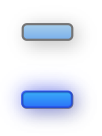
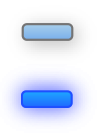
.

Changed region(s): [[0.2059, 0.6176, 0.7353, 0.8529]]

diff --git a/less/style_responsive.less b/less/style_responsive.less
@@ -115,7 +115,7 @@
 	  background-position: 0px 0px;
 	}
 
-	li.grey-btn:hover {
+	li.grey-btn:hover, li#wtfToggle.pressed {
 	  background: url('../images/btn-grey_@2X.png') no-repeat;
 	  background-size: 51px 68px;
 	  background-position: 0px -34px;
@@ -126,7 +126,7 @@
 	  background-position: 0px 0px;
 	}
 
-	li.blue-btn:hover, li#wtfToggle.pressed {
+	li.blue-btn:hover {
 	  background: url('../images/btn-blue_@2X.png') no-repeat;
 	  background-size: 51px 68px;
 	  background-position: 0px -34px;
@@ -148,6 +148,7 @@
 	  background-size: 83px 83px;
 	}
 }
+
 
 /* 1.25 dpr */
 @media (-webkit-min-device-pixel-ratio: 1.25), (min-resolution: 120dpi){ 

diff --git a/css/style_responsive.css b/css/style_responsive.css
@@ -101,7 +101,8 @@
     background-size: 51px 68px;
     background-position: 0px 0px;
   }
-  li.grey-btn:hover {
+  li.grey-btn:hover,
+  li#wtfToggle.pressed {
     background: url('../images/btn-grey_@2X.png') no-repeat;
     background-size: 51px 68px;
     background-position: 0px -34px;
@@ -111,8 +112,7 @@
     background-size: 51px 68px;
     background-position: 0px 0px;
   }
-  li.blue-btn:hover,
-  li#wtfToggle.pressed {
+  li.blue-btn:hover {
     background: url('../images/btn-blue_@2X.png') no-repeat;
     background-size: 51px 68px;
     background-position: 0px -34px;

diff --git a/index.html b/index.html
@@ -55,7 +55,7 @@
 					<li class="blank"></li>
 					<li class="grey-btn" onclick="heatDown()"></li>
 					<li class="grey-btn" onclick="heatUp()"></li>
-					<li class="blue-btn" id="wtfToggle" onclick="wtfToggle()"></li>
+					<li class="grey-btn" id="wtfToggle" onclick="wtfToggle()"></li>
 					<li class="grey-btn"></li>
 					<li class="fullscreen blue-btn" onclick="fullScreen()"></li>
 					<li class="grey-btn"></li>

diff --git a/css/style.css b/css/style.css
@@ -428,7 +428,7 @@ li.grey-btn:hover {
 }
 li#wtfToggle.pressed {
   display: block;
-  background: url('../images/btn-blue.png') no-repeat;
+  background: url('../images/btn-grey.png') no-repeat;
   background-size: 51px 68px;
   background-position: 0px -34px;
 }

diff --git a/less/style.less b/less/style.less
@@ -398,7 +398,7 @@ li.grey-btn:hover {
 
 li#wtfToggle.pressed {
   display: block;
-  background: url('../images/btn-blue.png') no-repeat;
+  background: url('../images/btn-grey.png') no-repeat;
   background-size: 51px 68px;
   background-position: 0px -34px;
 }
